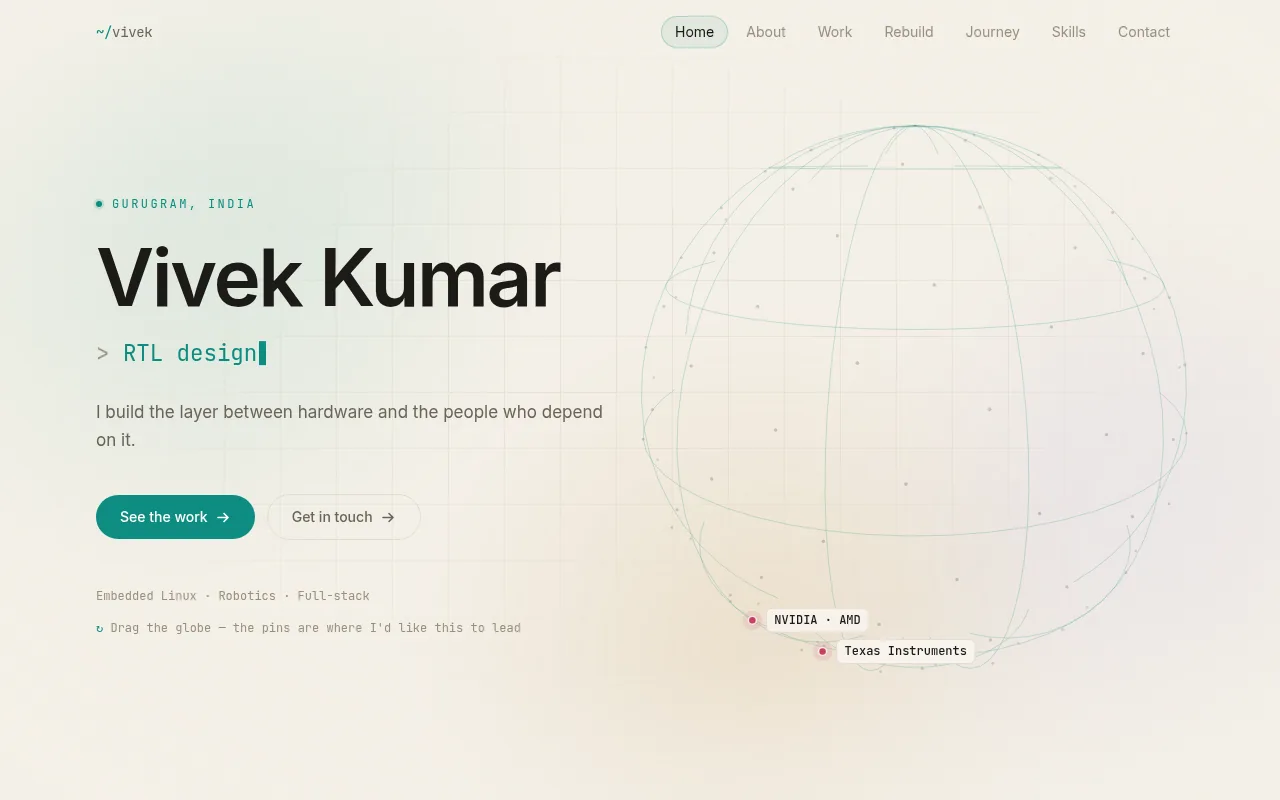
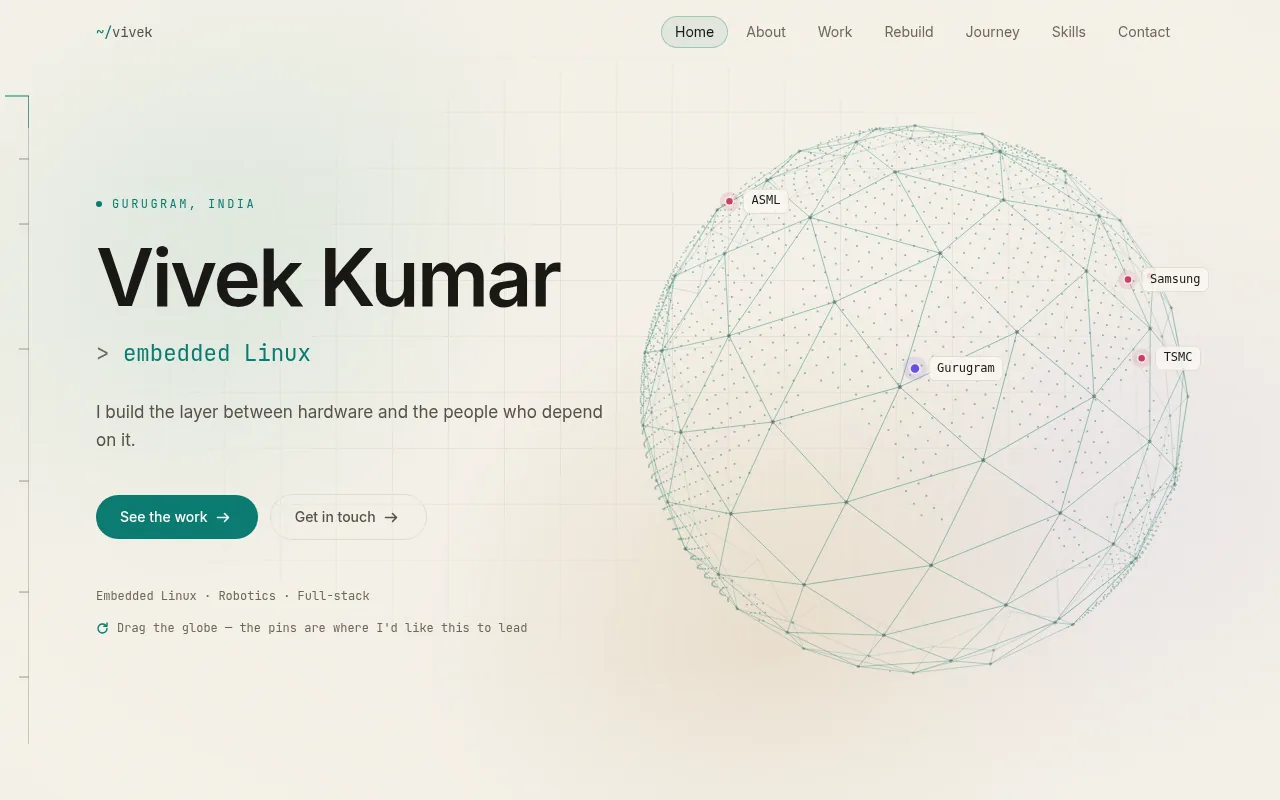
Refresh the comparison's "now", and stop it looking broken while it loads
The 2026 screenshot was captured on 29 July and nineteen commits to src/ have
landed since. The right-hand side of a slider whose entire claim is "this is
what it is now" was showing a version of the site that no longer exists — no
rail, no margin type, older colours, older copy. Recaptured at the same
1280x800 viewport as the 2023 shot, so the comparison stays like for like.

The loading state was the reported symptom. Both files are served fine — 200,
right type, right size, and they load even on a throttled connection — but an
<img> that hasn't arrived yet renders its alt text, and here that meant two
long sentences sprawling across the frame, overlapping each other because both
images are absolutely positioned. It reads as a broken page rather than a
loading one.

The images are decorative now: alt="" so an empty one shows nothing, with the
description moved into a figcaption that screen readers still get, and the
frame carries a surface background so the gap reads as an empty panel. Checked
with the images blocked outright — the worst case is now a clean frame with its
year labels and divider.

diff --git a/src/components/Rebuild.tsx b/src/components/Rebuild.tsx
@@ -15,11 +15,16 @@ function Compare() {
   const { before, after } = rebuild
 
   return (
-    <div className="group relative aspect-[1280/800] w-full overflow-hidden rounded-panel border border-hairline select-none">
-      {/* 2026 sits underneath, full width. */}
+    <figure className="group relative aspect-[1280/800] w-full overflow-hidden rounded-panel border border-hairline bg-surface select-none">
+      {/* Both images carry alt="" and the description lives in the caption
+          below instead. An <img> that hasn't arrived yet renders its alt text,
+          and two sentences of it sprawling across the frame — overlapping,
+          since both are absolutely positioned — reads as a broken page rather
+          than a loading one. Empty alt means the gap is just the panel's own
+          background until the picture lands. */}
       <img
         src={after.image}
-        alt={after.alt}
+        alt=""
         width={1280}
         height={800}
         loading="lazy"
@@ -34,7 +39,7 @@ function Compare() {
       >
         <img
           src={before.image}
-          alt={before.alt}
+          alt=""
           width={1280}
           height={800}
           loading="lazy"
@@ -42,6 +47,11 @@ function Compare() {
           className="absolute inset-0 h-full w-full object-cover object-top"
         />
       </div>
+
+      <figcaption className="sr-only">
+        A slider comparing two versions of this site. On the left, {before.alt}{' '}
+        On the right, {after.alt}
+      </figcaption>
 
       {/* Year labels, each fading out as the handle passes over it. */}
       <span
@@ -86,7 +96,7 @@ function Compare() {
         aria-label={`Reveal the ${before.year} site on the left, the ${after.year} site on the right`}
         className="absolute inset-0 h-full w-full cursor-ew-resize appearance-none bg-transparent opacity-0"
       />
-    </div>
+    </figure>
   )
 }
 

diff --git a/src/content.ts b/src/content.ts
@@ -297,7 +297,7 @@ export const rebuild = {
     year: '2023',
     caption: 'Hand-written, no build step',
     image: '/compare/2023.webp',
-    alt: 'The 2023 portfolio: a plain white page with a centred heading and a large empty gap below it.',
+    alt: 'the 2023 portfolio — a plain white page with a centred heading and a large empty gap below it.',
     body: `I wrote every line of it myself — HTML, CSS and JavaScript in one
       1,100-line file, with Bootstrap 5, the Argon design system, Swiper and
       jQuery pulled in from CDNs. No bundler, no generator. It was genuinely the
@@ -307,7 +307,7 @@ export const rebuild = {
     year: '2026',
     caption: 'Rebuilt, with AI in the loop',
     image: '/compare/2026.webp',
-    alt: 'The 2026 portfolio: a warm bone page with an interactive globe, a monospace subtitle and a structured hero.',
+    alt: 'the 2026 portfolio — a warm bone page with an interactive globe, a monospace subtitle and a structured hero.',
     body: `I move a lot faster now, and I don't pretend I did this one alone. But
       speed was never the thing that was missing.`,
   },
